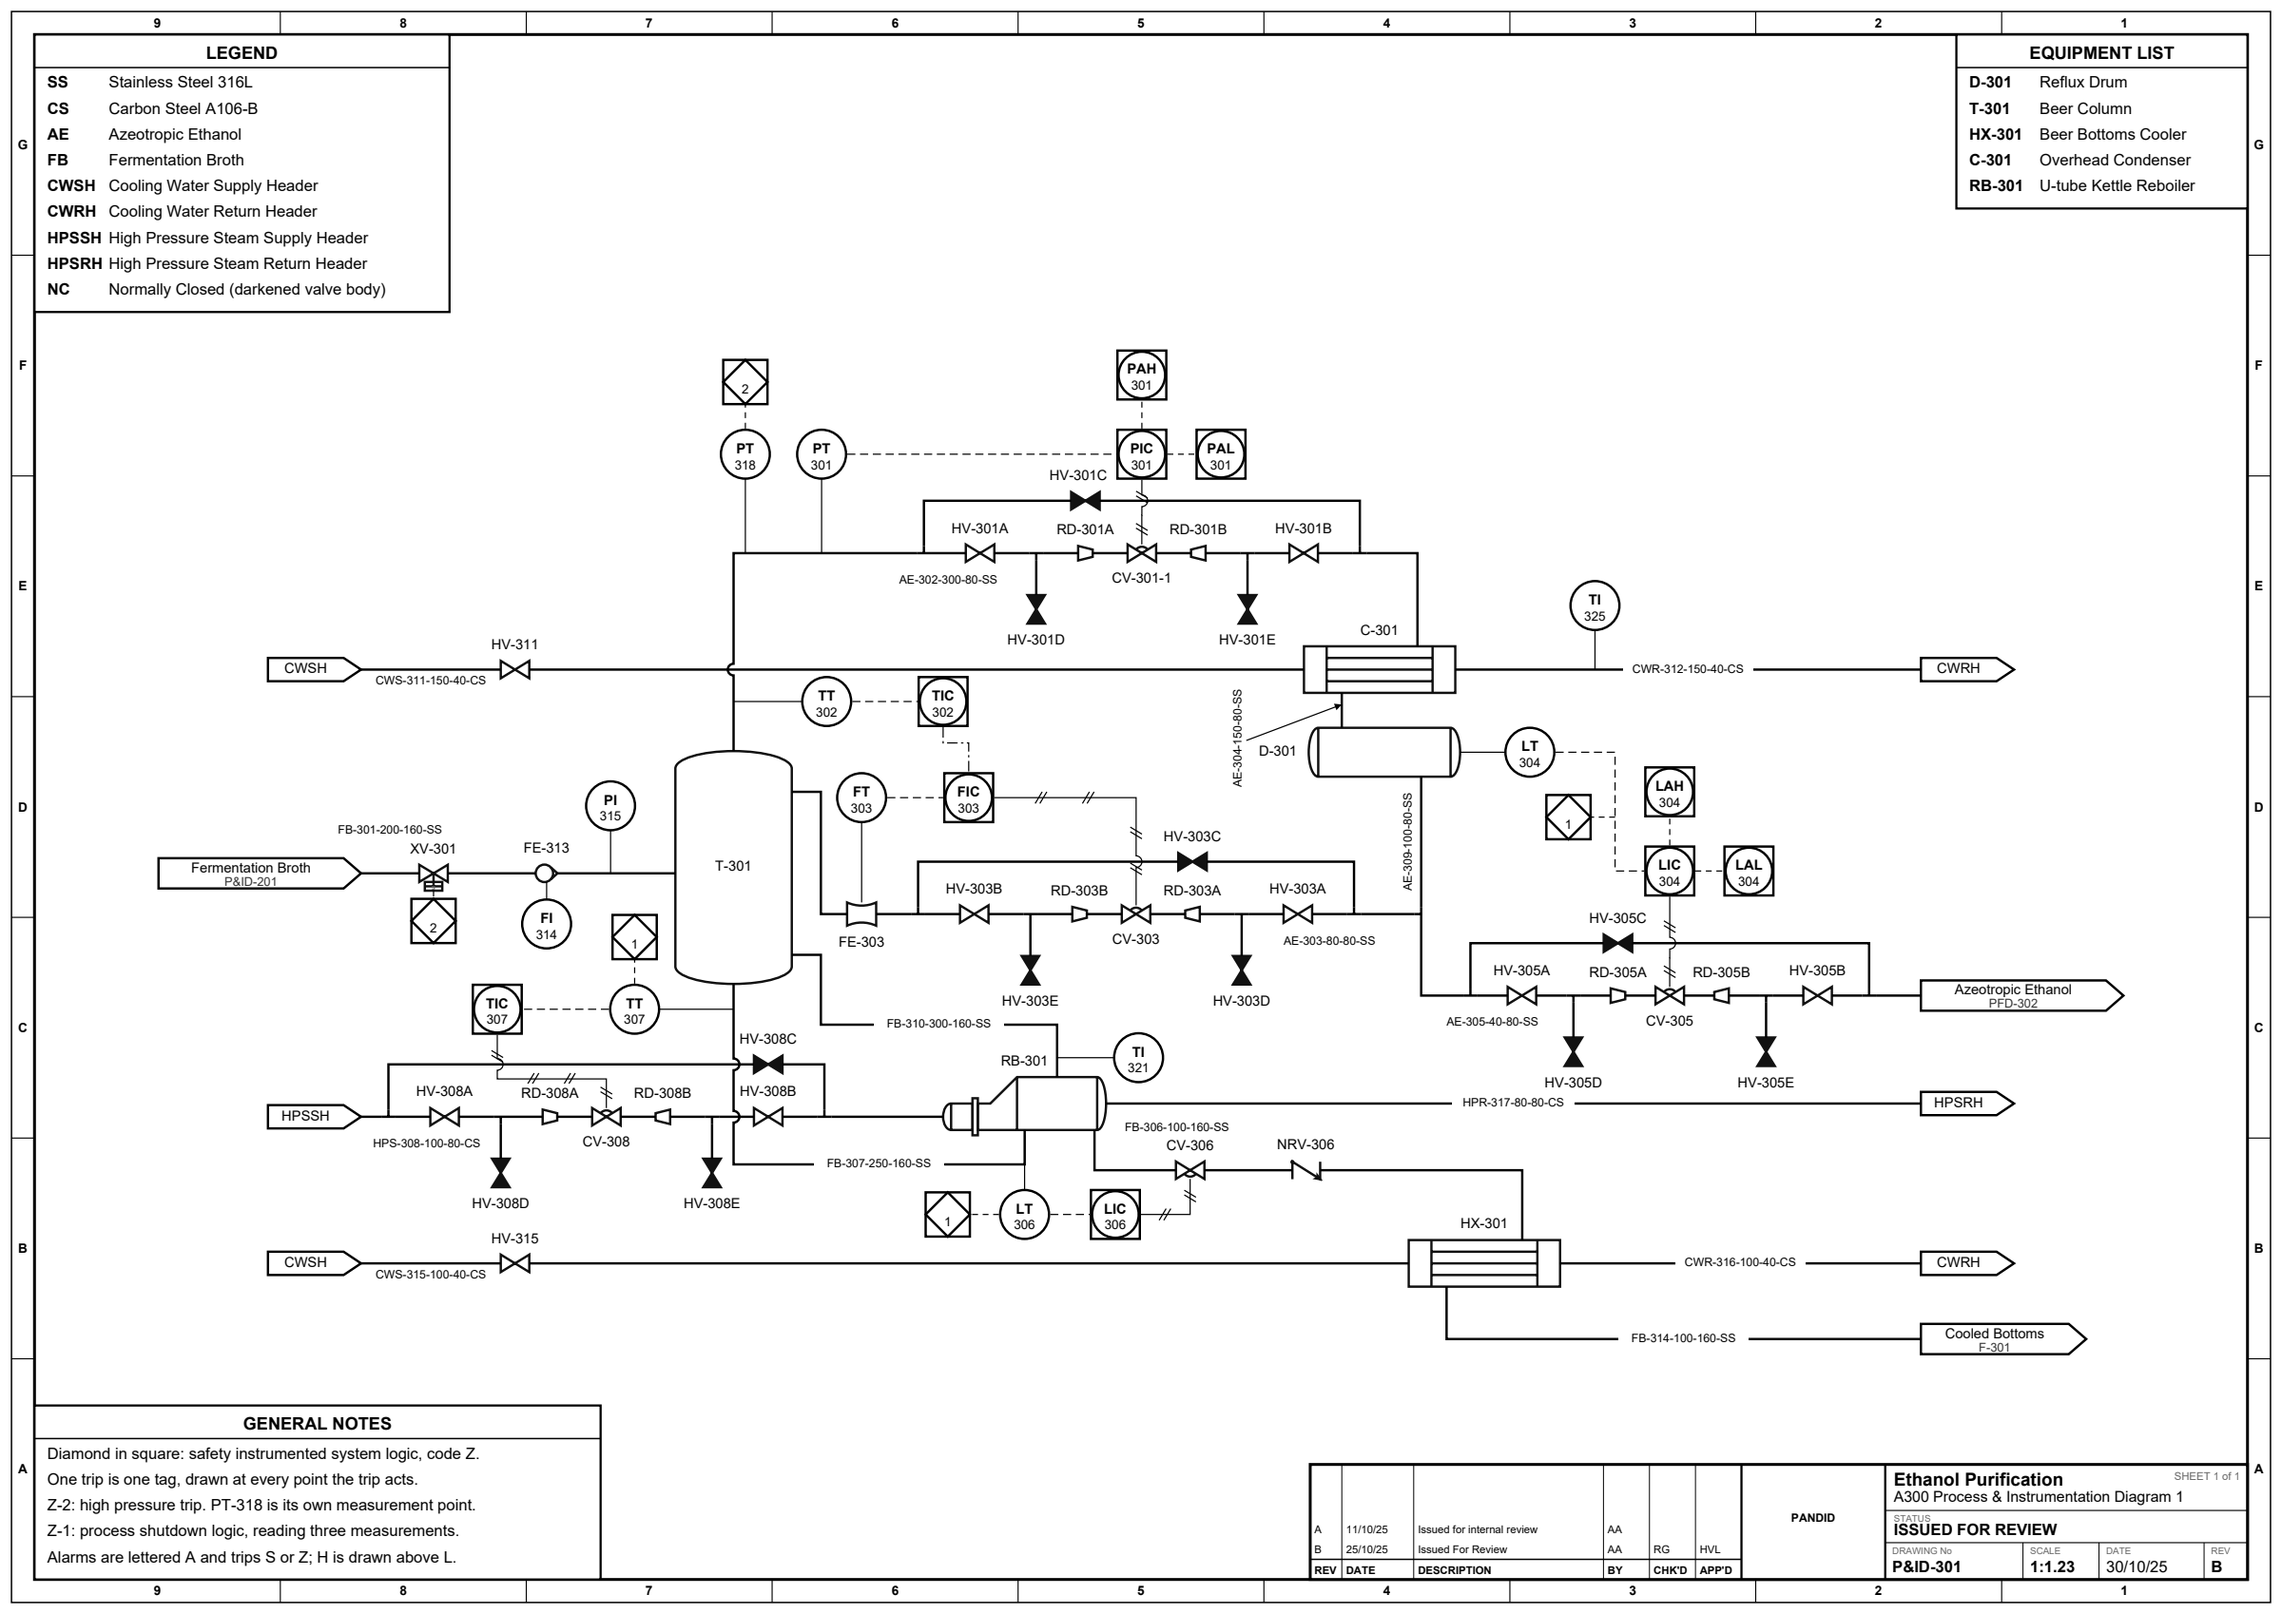
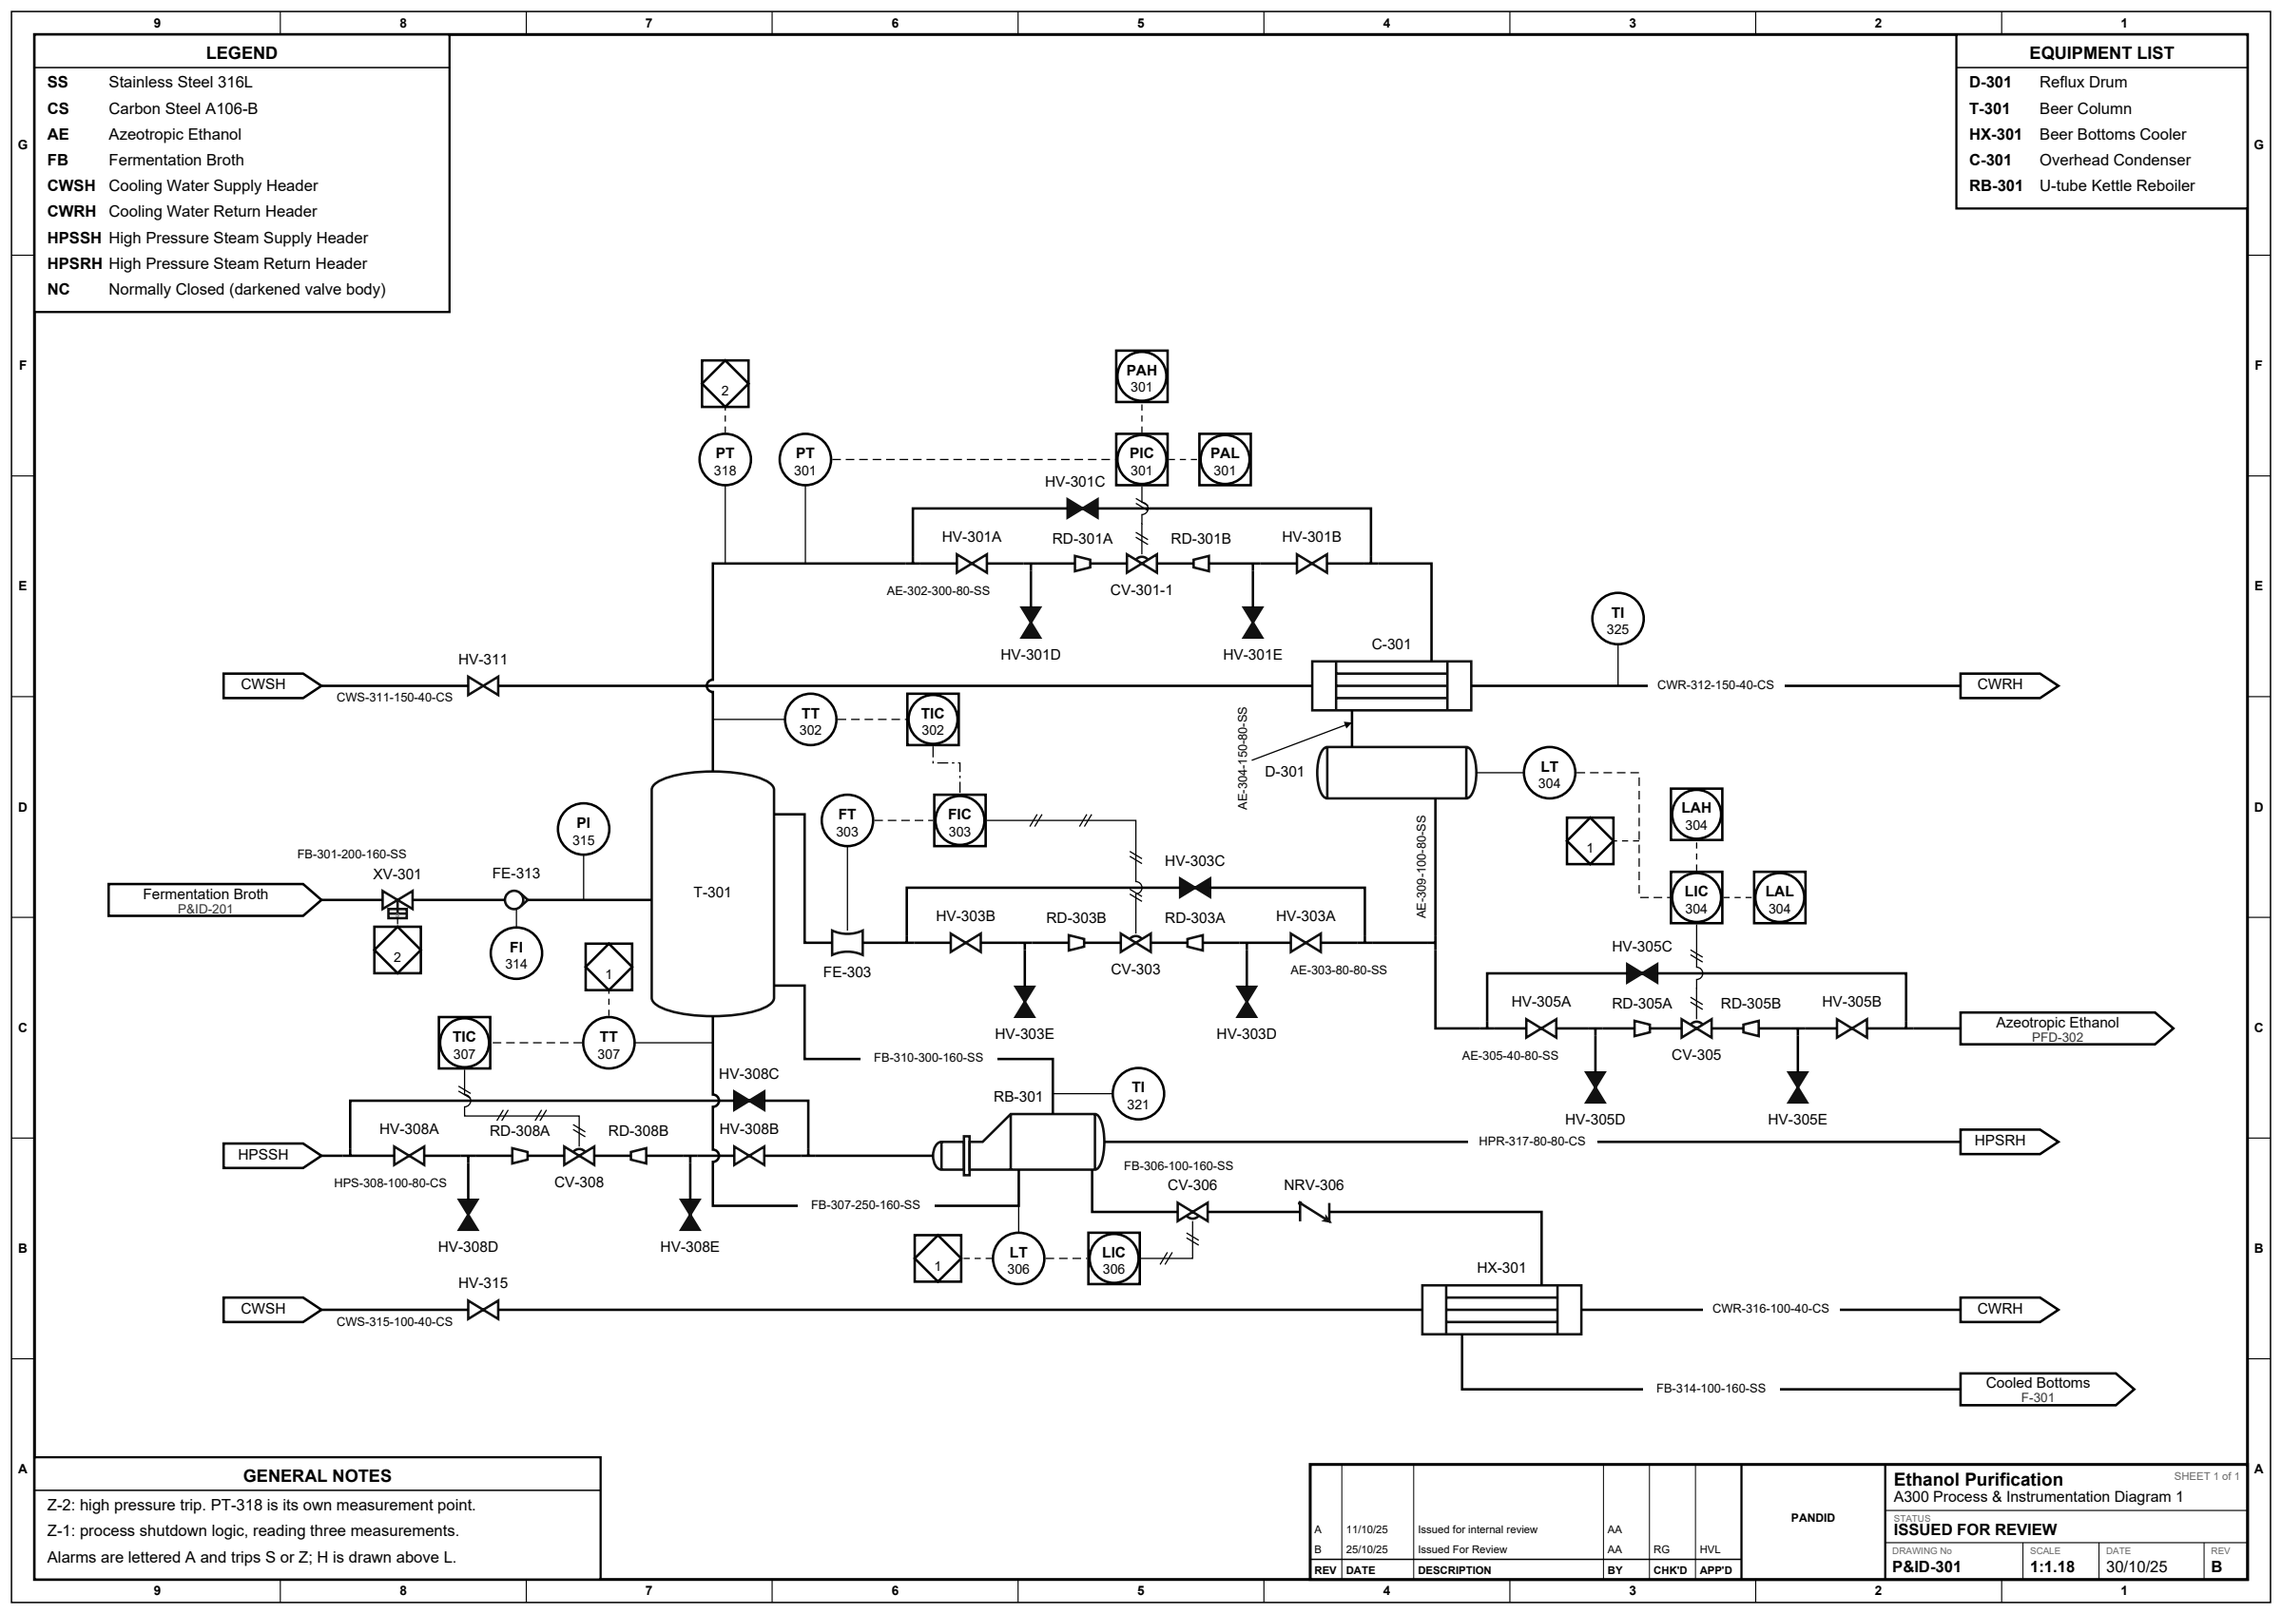
refactor(examples): keep in 11's and 14's notes only what the drawing cannot say
Four lines out of two GENERAL NOTES boxes, all of them drawing conventions
rather than facts about the plant.

`"Diamond in square: safety instrumented system logic, code Z."` is a symbol
key, and both sheets already carry a LEGEND box, which is where a symbol key
goes. Nothing is lost with it gone either: the note under it names the trip by
its code -- `Z-1` on 14, `Z-1` and `Z-2` on 11 -- so a reader still reads the
letter off the box, and the square itself is ANSI/ISA-5.1 Table 5.1.1 column
B's diamond-in-square, which is not this repo's invention to declare.

`"One trip, drawn at each point it acts: both level switches and both receipt
valves."` (14) and `"One trip is one tag, drawn at every point the trip acts."`
(11) both describe what the reader is looking at. Four squares numbered 1 are
four squares numbered 1; a sentence counting them adds nothing the drawing has
not already drawn. 14's note keeps its first sentence, which states what the
trip *does* -- receipt shutdown on tank high-high level -- and that is not on
the sheet anywhere.

Everything else stays, because none of it is inferable from the drawing:
`LSHH-611/612`'s independence from the gauging transmitters, the two arrestors'
ratings, `VT-601` being the only opening to atmosphere, `SB-601`'s isolation
duty, and on 11 the two trips' scope and the alarm/trip lettering rule.

`"XV-601 and XV-602 fail closed."` stays too, and now carries a comment saying
[…]

diff --git a/examples/14_tank_farm.py b/examples/14_tank_farm.py
@@ -655,16 +655,19 @@ def main():
     ))
     # General, and general is why they are not numbered: a number in a notes box
     # is a flag note, drawn on the line it applies to, and nothing here puts a
-    # reference on a line. What is left is what a general note is for -- the
-    # conventions a reader needs, each true of something drawn on this sheet.
+    # reference on a line. What is left is what a general note is for -- what
+    # the drawing itself cannot say. A symbol key belongs in the LEGEND box
+    # below, and where the trip squares are is visible in the trip squares.
     fs.add_annotation(notes([
-        "Diamond in square: safety instrumented system logic, code Z.",
-        "Z-1: receipt shutdown on tank high-high level. One trip, drawn at each",
-        "point it acts: both level switches and both receipt valves.",
+        "Z-1: receipt shutdown on tank high-high level.",
         "LSHH-611/612 are independent of the gauging transmitters they back up.",
         "FA-601 is deflagration rated; FA-602, on the rack return, is detonation",
         "rated. VT-601 is the vapour system's only opening to atmosphere.",
         "SB-601 gives TK-602 positive isolation from the blend header.",
+        # This one is not a fact about the plant: it stands in for a mark the
+        # sheet cannot yet draw, since fail="closed" puts an FC mark whose halo
+        # deletes the trip square's impulse line (#223). Delete the note when
+        # #223 lands and the mark goes back on XV-601 and XV-602.
         "XV-601 and XV-602 fail closed.",
     ], title="GENERAL NOTES", numbered=False, align="bottom-left"))
     fs.add_annotation(legend({

diff --git a/tests/test_golden.py b/tests/test_golden.py
@@ -1256,8 +1256,6 @@ def _ethanol_pid() -> Flowsheet:
     fs.add_annotation(
         notes(
             [
-                "Diamond in square: safety instrumented system logic, code Z.",
-                "One trip is one tag, drawn at every point the trip acts.",
                 "Z-2: high pressure trip. PT-318 is its own measurement point.",
                 "Z-1: process shutdown logic, reading three measurements.",
                 "Alarms are lettered A and trips S or Z; H is drawn above L.",
@@ -1974,9 +1972,7 @@ def _tank_farm() -> Flowsheet:
     fs.add_annotation(
         notes(
             [
-                "Diamond in square: safety instrumented system logic, code Z.",
-                "Z-1: receipt shutdown on tank high-high level. One trip, drawn at each",
-                "point it acts: both level switches and both receipt valves.",
+                "Z-1: receipt shutdown on tank high-high level.",
                 "LSHH-611/612 are independent of the gauging transmitters they back up.",
                 "FA-601 is deflagration rated; FA-602, on the rack return, is detonation",
                 "rated. VT-601 is the vapour system's only opening to atmosphere.",

diff --git a/examples/11_ethanol_pid.py b/examples/11_ethanol_pid.py
@@ -636,11 +636,10 @@ def main():
     # five references to nothing, which is what this box used to be: it was
     # copied off the issued sheet, where every one of its five notes is flagged
     # on the drawing, and landed on a sheet that flags none of them. What is
-    # left is what a general note is for: the conventions a reader needs to
-    # read the sheet, each true of something drawn on it.
+    # left is what a general note is for: three statements the drawing itself
+    # cannot make. A symbol key belongs in the LEGEND box below, and that one
+    # trip is drawn at every point it acts is visible in the squares.
     fs.add_annotation(notes([
-        "Diamond in square: safety instrumented system logic, code Z.",
-        "One trip is one tag, drawn at every point the trip acts.",
         "Z-2: high pressure trip. PT-318 is its own measurement point.",
         "Z-1: process shutdown logic, reading three measurements.",
         "Alarms are lettered A and trips S or Z; H is drawn above L.",
